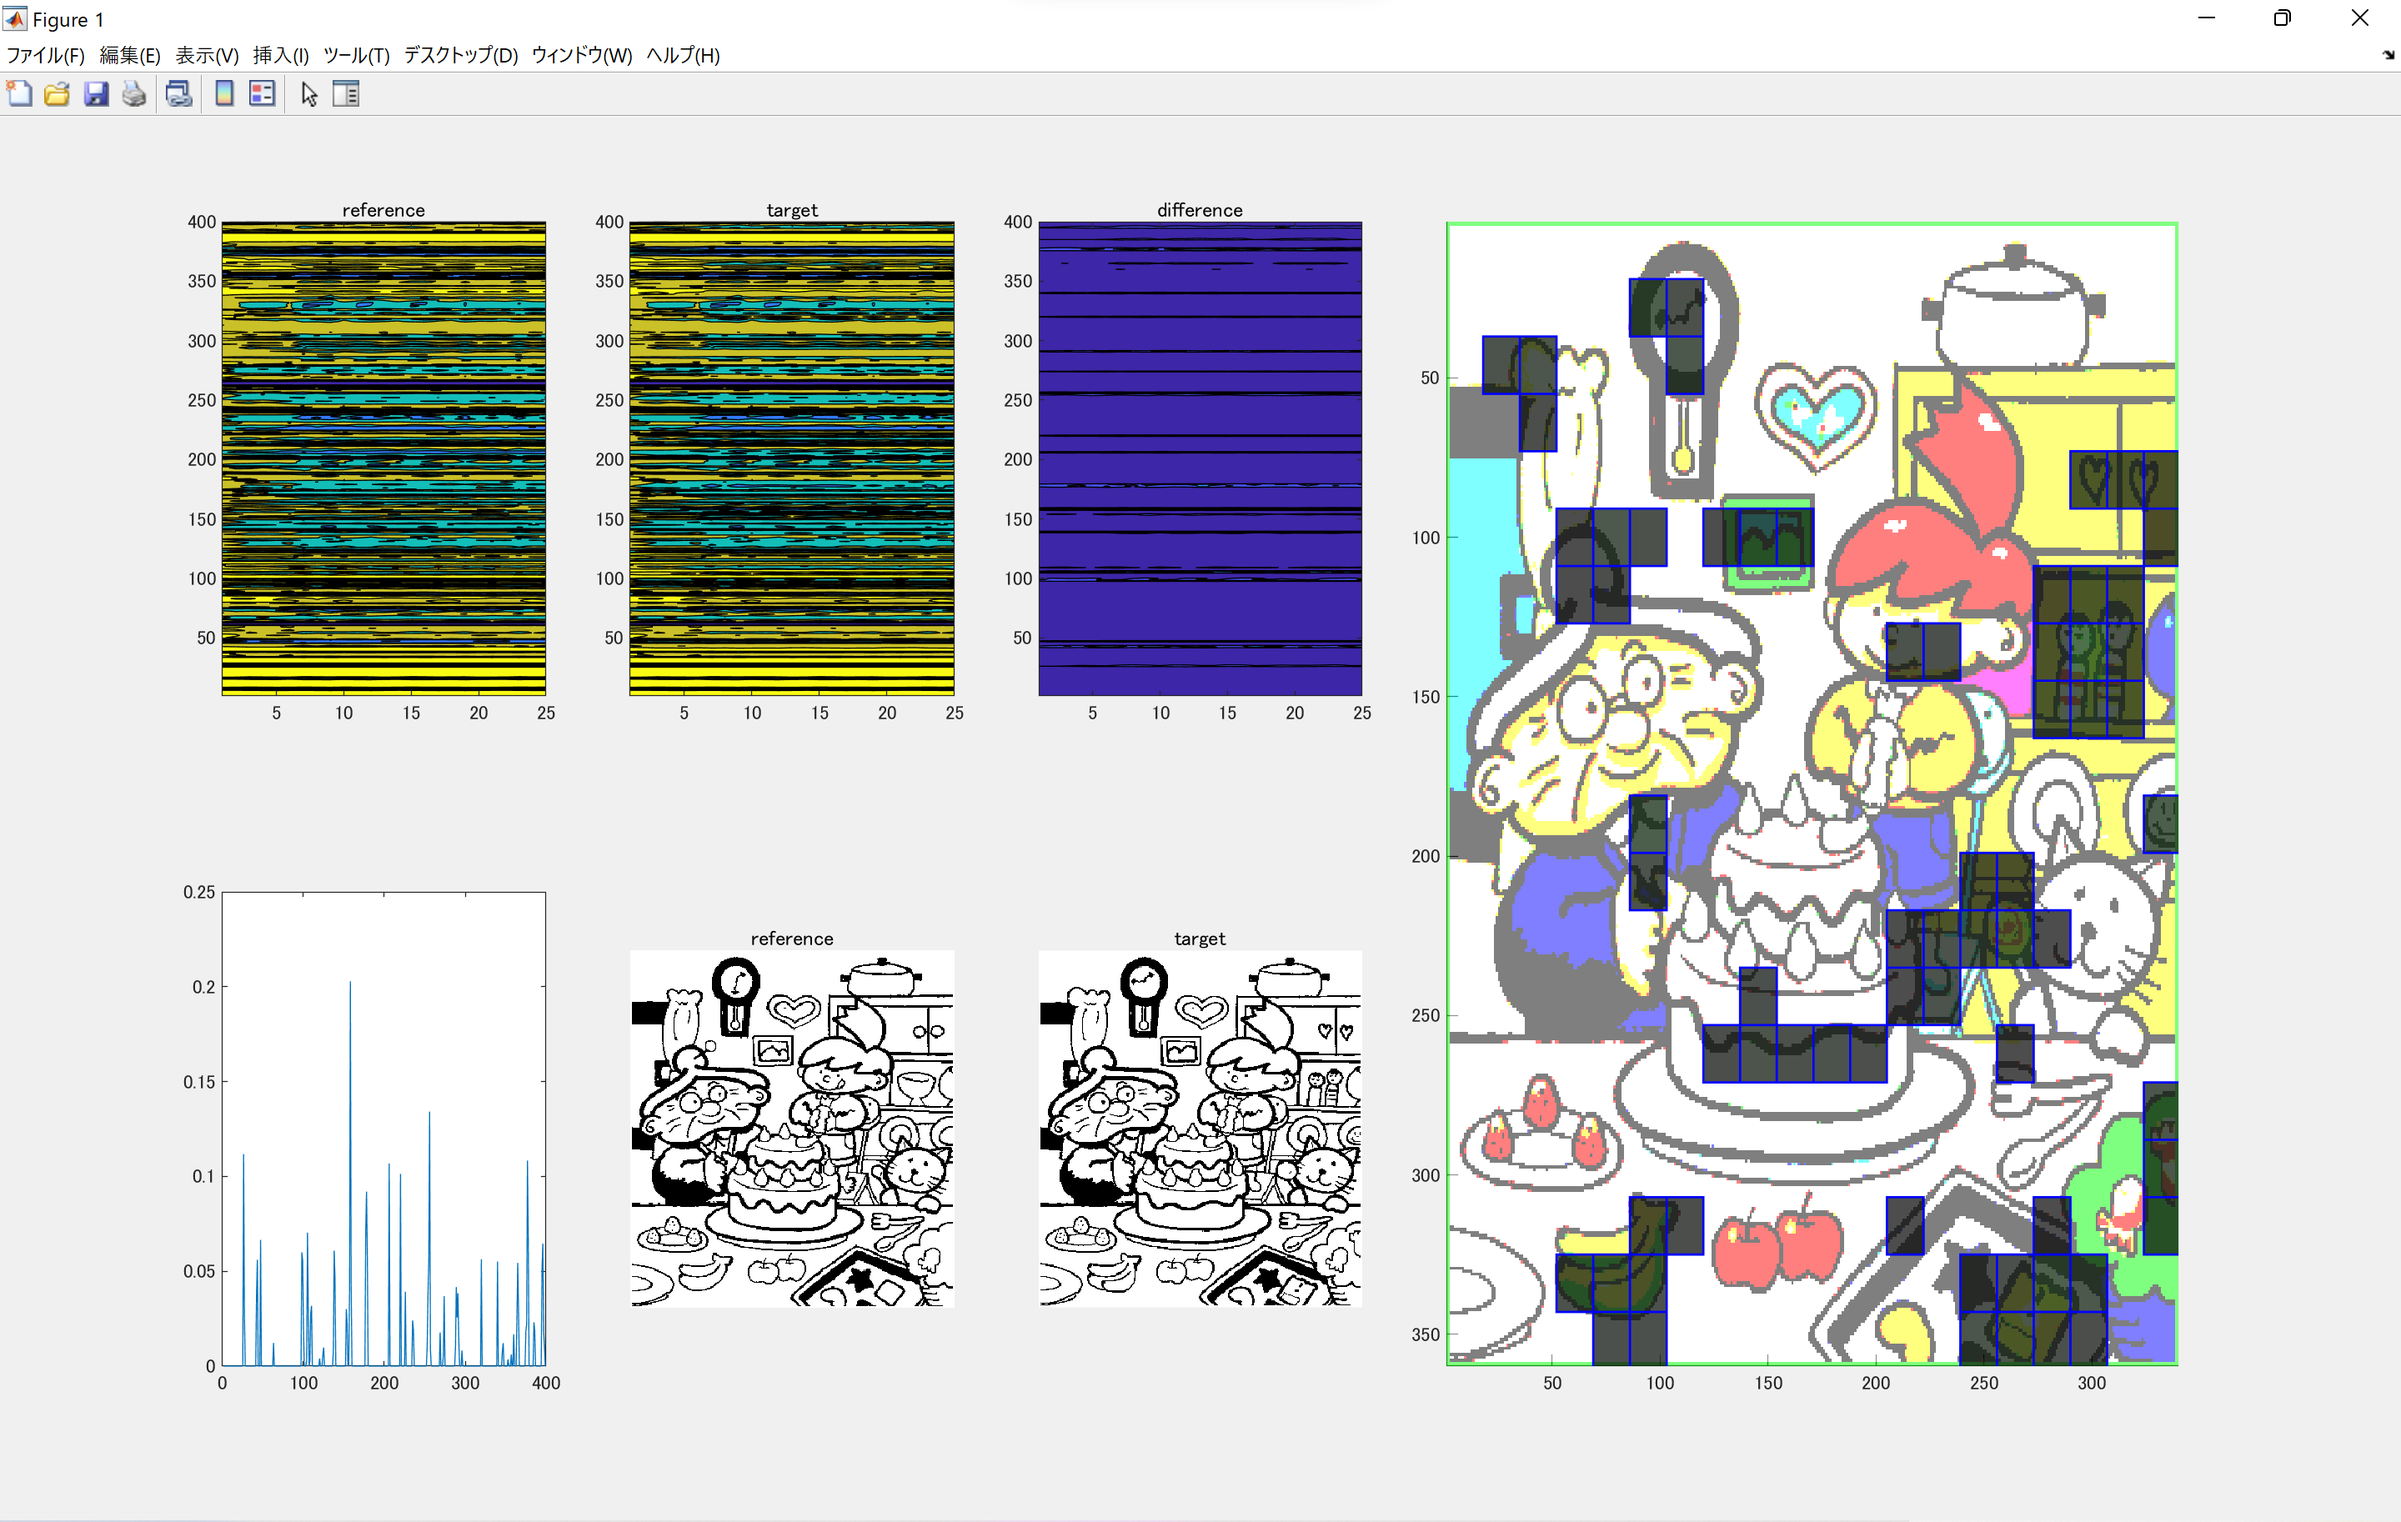
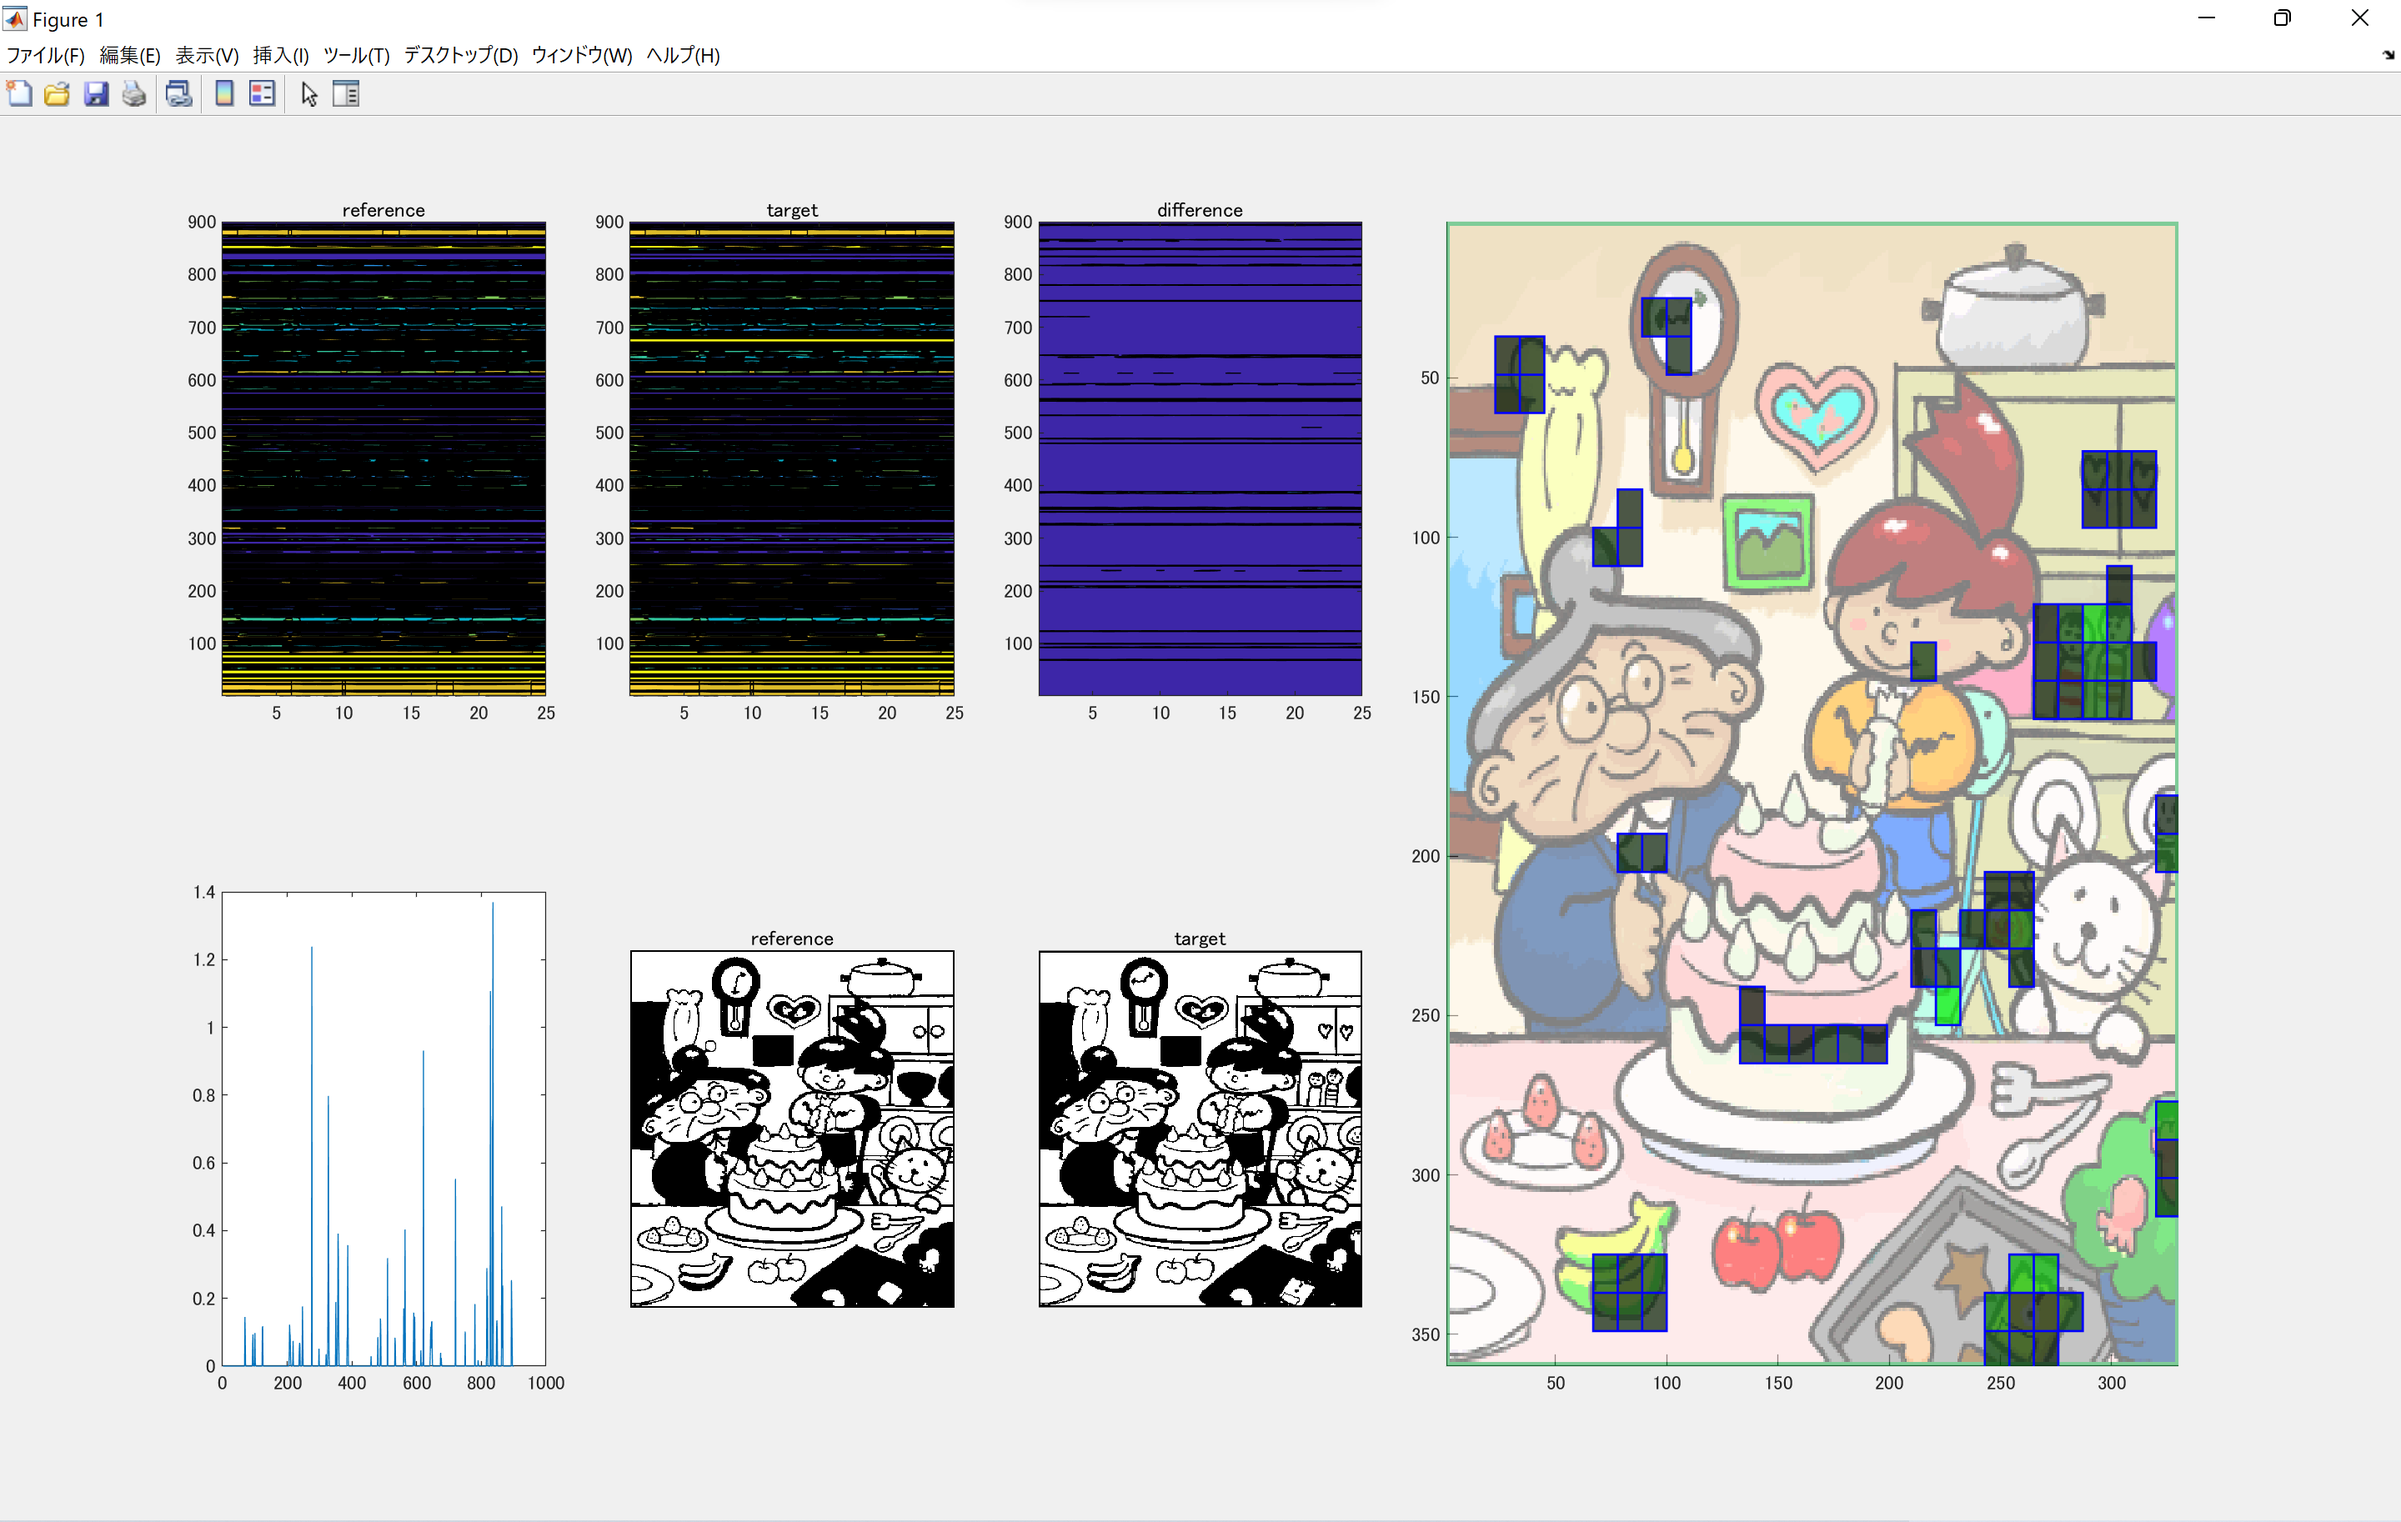
fixed some logic

diff --git a/hlac_main2.m b/hlac_main2.m
@@ -50,7 +50,7 @@ tar_img = img(1:colsize, (uint16(rowsize/2) + 1):rowsize, :);
 
 
 % 2値化する
-ncl = 2; % 1~3
+ncl = 1; % 1~3
 ref_bin = ref_img(:,:,ncl) > graythresh(ref_img(:,:,ncl)) ; 
 tar_bin = tar_img(:,:,ncl) > graythresh(tar_img(:,:,ncl)) ; 
 
@@ -123,20 +123,20 @@ im = image('CData',img,'XData',[1 ax.XLim],'YData',[1 ax.YLim]);
 im.AlphaData = 0.5;
 hold on
 p = 1;
-th = 0.08;
+th = 0.04;
 for y=1:y_each:y_lim
     for x=1:x_each:x_lim
         angle = real(hlac_angles(p));
         
         if angle > th
-            r = rectangle('Position',[x y x_each y_each]);
             if(angle <= 1 )
+                r = rectangle('Position',[x y x_each y_each]);
                 r.FaceColor = [0 angle 0 0.7];
+                r.EdgeColor = 'b';
+                r.LineWidth = 1;
             else
-                r.FaceColor = [0 1 0 0.7];
+
             end
-            r.EdgeColor = 'b';
-            r.LineWidth = 1;
             
         end
         p = p + 1;
